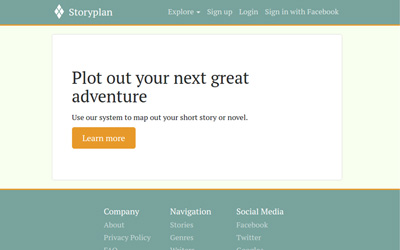
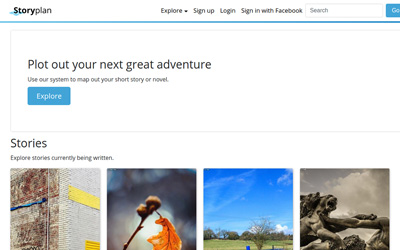
Change image and add image links

diff --git a/index.html b/index.html
@@ -59,7 +59,7 @@
 
     <div class="row row-app">
       <div class="col-md-4">
-        <img src="img/app_storyplan.jpg" class="img-fluid img-rounded img-app">
+        <a href="https://rails-storyplan.herokuapp.com/" target="_blank"><img src="img/app_storyplan.jpg" class="img-fluid img-rounded img-app"></a>
       </div>
       <div class="col-md-8">
         <h2>Storyplan</h2>
@@ -82,7 +82,7 @@
 
     <div class="row row-app">
       <div class="col-md-4">
-        <img src="img/app_sketchbook.jpg" class="img-fluid img-rounded img-app">
+        <a href="https://angular-sketchbook.herokuapp.com/" target="_blank"><img src="img/app_sketchbook.jpg" class="img-fluid img-rounded img-app"></a>
       </div>
       <div class="col-md-8">
         <h2>Sketchbook</h2>
@@ -103,7 +103,7 @@
 
     <div class="row row-app">
       <div class="col-md-4">
-        <img src="img/app_post_it.jpg" class="img-fluid img-rounded img-app">
+        <a href="https://rails-post-it.herokuapp.com/" target="_blank"><img src="img/app_post_it.jpg" class="img-fluid img-rounded img-app"></a>
       </div>
       <div class="col-md-8">
         <h2>Post-It</h2>
@@ -122,7 +122,7 @@
 
     <div class="row row-app">
       <div class="col-md-4">
-        <img src="img/app_simple_blog.jpg" class="img-fluid img-rounded img-app">
+        <a href="https://github.com/MitulMistry/sinatra-simple-blog" target="_blank"><img src="img/app_simple_blog.jpg" class="img-fluid img-rounded img-app"></a>
       </div>
       <div class="col-md-8">
         <h2>Simple Blog</h2>
@@ -142,7 +142,7 @@
 
     <div class="row">
       <div class="col-md-6 col-app">
-        <img src="img/app_frazetta.jpg" class="img-fluid img-rounded img-app">
+        <a href="https://mitulmistry.github.io/frazetta-front-page/" target="_blank"><img src="img/app_frazetta.jpg" class="img-fluid img-rounded img-app"></a>
         <h2>Frank Frazetta</h2>
         <p>Front page for fantasy illustration website</p>
         <p>
@@ -152,7 +152,7 @@
       </div>
 
       <div class="col-md-6 col-app">
-        <img src="img/app_artsmart.jpg" class="img-fluid img-rounded img-app">
+        <a href="https://mitulmistry.github.io/artsmart-front-page/" target="_blank"><img src="img/app_artsmart.jpg" class="img-fluid img-rounded img-app"></a>
         <h2>ArtSmart</h2>
         <p>Front page for art history website</p>
         <p>
@@ -167,7 +167,7 @@
 
     <div class="row row-app">
       <div class="col-md-4">
-        <img src="img/app_cmd.jpg" class="img-fluid img-rounded img-app">
+        <a href="https://github.com/MitulMistry/steam-top-sellers-cli-gem" target="_blank"><img src="img/app_cmd.jpg" class="img-fluid img-rounded img-app"></a>
       </div>
       <div class="col-md-8">
         <h2>Steam Top Sellers CLI Gem</h2>
